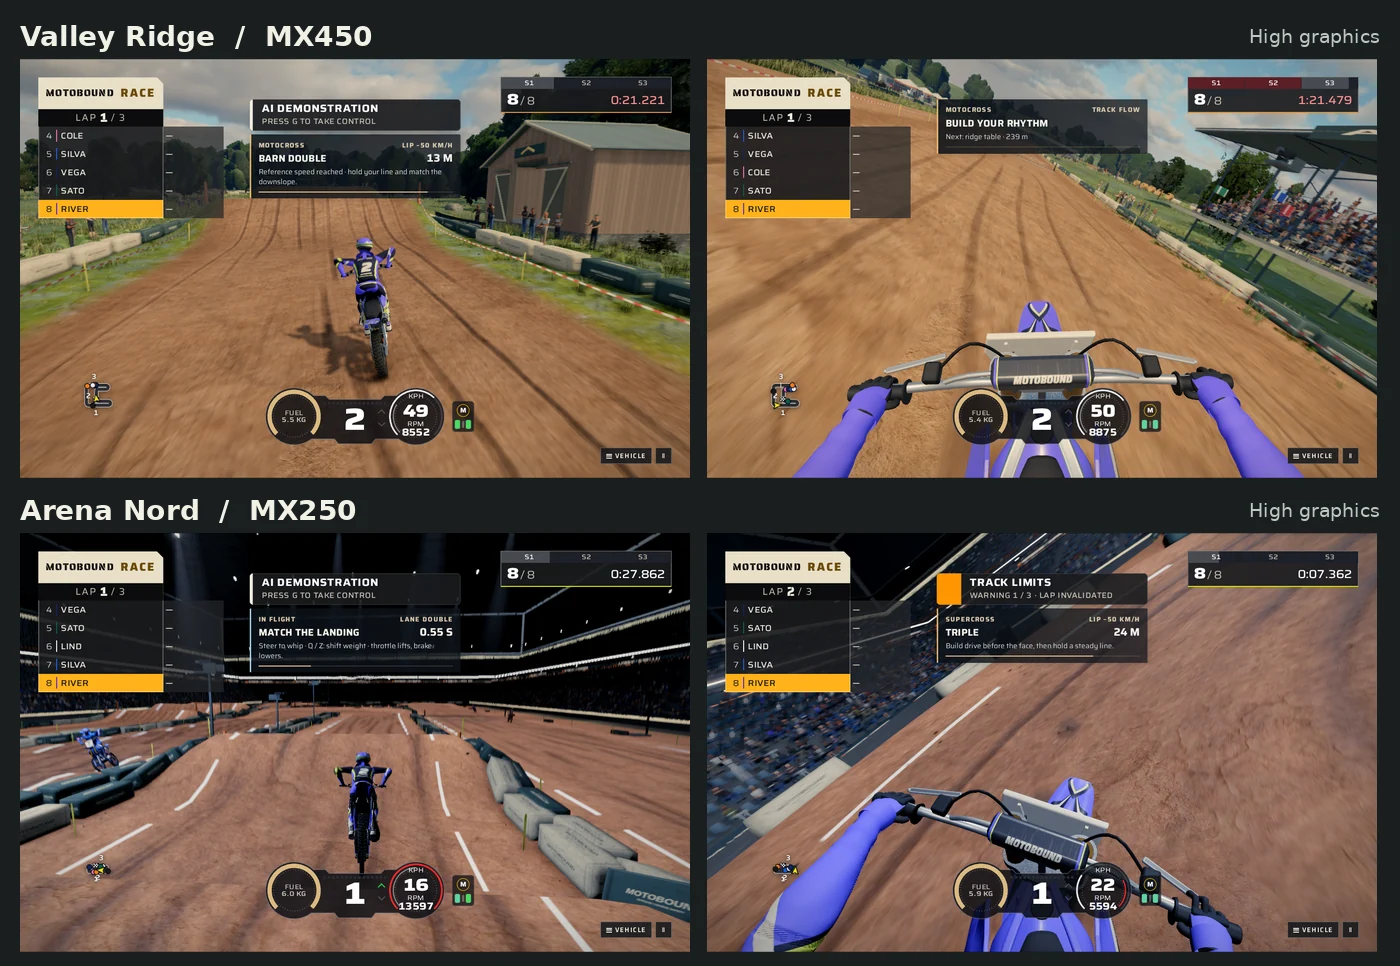
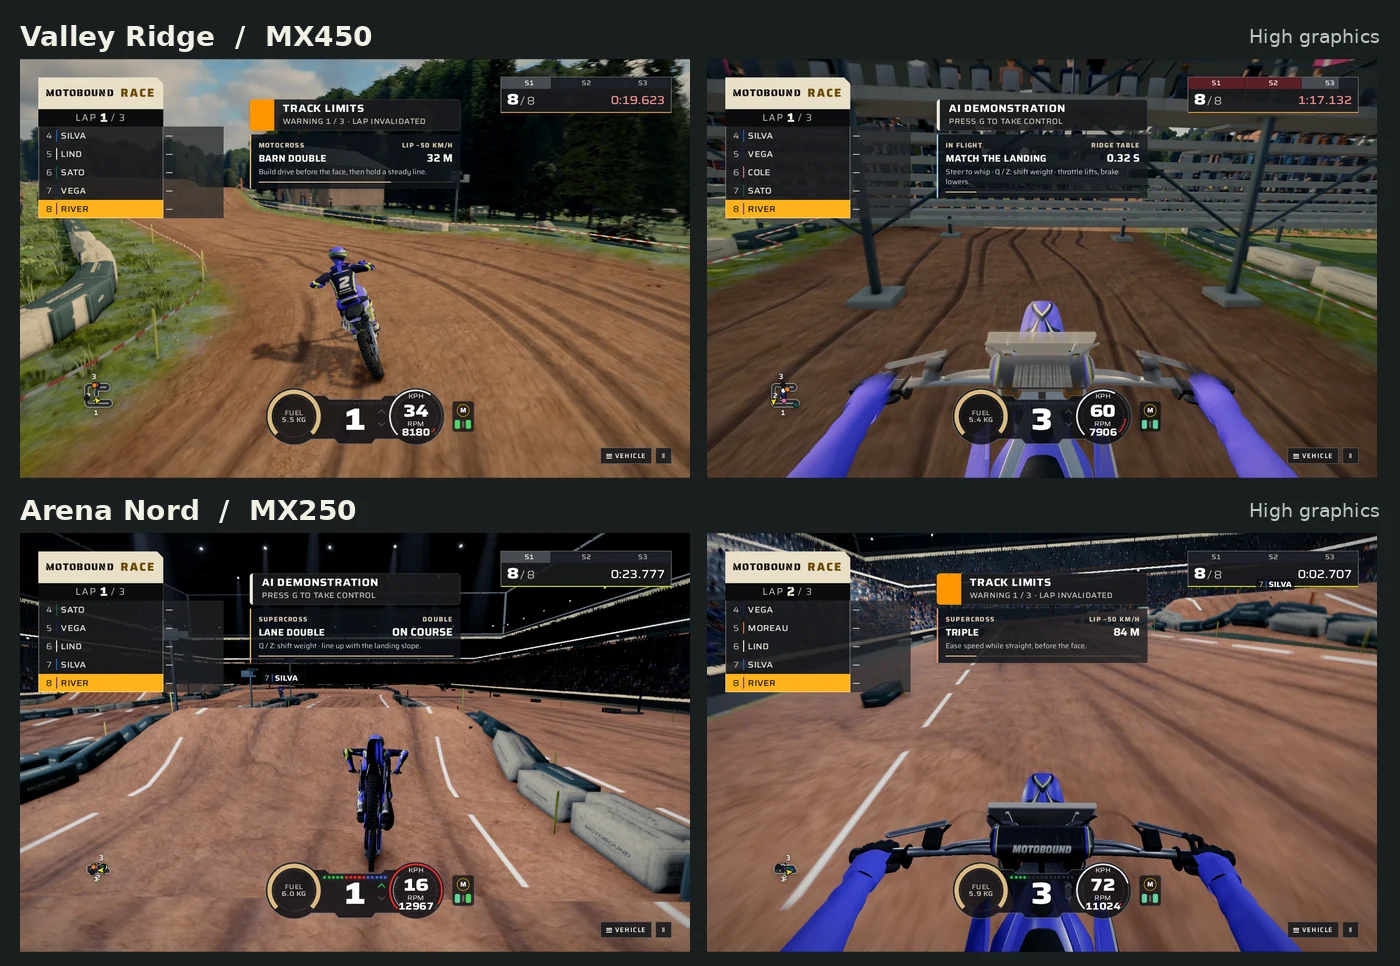
Publish full-quality race frames, matched supermoto artwork and the Mesa terrain results [skip ci]

diff --git a/docs/production/motocross-race-review/README.md b/docs/production/motocross-race-review/README.md
@@ -1,16 +1,16 @@
 # Motocross race review
 
-Valley Ridge and Arena Nord use the same articulated MX250 and MX450 models in racing, onboard views and replay.
+Valley Ridge and Arena Nord use the same articulated MX250 and MX450 models in racing, onboard views and replay. The SM450 supermoto shares the motocross frame and rider controls and uses its own road wheels.
 
 ![Valley Ridge’s eight-rider field holding at the starting gate in the production game](starting-grid.webp)
 
-The High screenshots come from production races entered through the paddock at `32865ee`. The player accelerated and used the fore/aft weight controls before enabling the race AI. These are chase and onboard views from those runs.
+These High screenshots come from production races entered through the paddock at `1a5fb40`. The player accelerated and shifted weight in both directions before enabling the race AI. The outdoor run covered 282 m and recorded 1.10 s of flight. The stadium run covered 187 m and recorded 0.79 s. Both sessions paused and returned to the paddock after the chase and onboard captures.
 
 ![Chase and onboard gameplay at Valley Ridge on the MX450 and Arena Nord on the MX250](racing-views.webp)
 
 The comparisons below use the production Three.js geometry on a neutral floor. Each pair uses the same pose, camera, lighting and scale. The earlier images come from main at `7423a49`.
 
-![MX450 at close and distant range, an MX250 rider standing on the pegs, and an onboard view, before and after the changes](bike-and-rider.webp)
+![MX450 at close and distant range, an MX250 rider standing on the pegs, the road-wheel SM450, and an onboard view, before and after the changes](bike-and-rider.webp)
 
 ![The service van, straw bale, gate and stadium seat geometry under matched lighting](course-models.webp)
 
@@ -65,4 +65,6 @@ npm run test:offroad
 node --experimental-transform-types scripts/motocross-feel-probe.ts
 ```
 
-These WebGL2 inspections use Chromium with SwiftShader. For a physical desktop GPU, the existing benchmark records the adapter, frame pacing and driving stalls with `npm run bench:gpu -- --journeys motocross --qualities low,medium,high`. Console performance and competitive input latency still require measurements on the target hardware.
+The WebGL2 model inspections ran on Chromium with SwiftShader and Mesa llvmpipe. Both adapters passed the two-rider GPU lifetime test. The terrain checks covered six states in both camera views on both venues. On Mesa, 22 of 23 browser checks passed in one run. The Arena Nord terrain check timed out there and passed on its own in 3.1 minutes, with the same 472 geometries, 428 textures and 62 shader programs throughout.
+
+For a physical desktop GPU, the existing benchmark records the adapter, frame pacing and driving stalls with `npm run bench:gpu -- --journeys motocross --qualities low,medium,high`. Console performance and competitive input latency still require measurements on the target hardware.

diff --git a/README.md b/README.md
@@ -142,7 +142,7 @@ scripts/, tools/ Validation and asset tooling
 | [MotoGP R2 improvements](docs/MOTOGP_R2_DELIVERY.md)                                       | All 100 reference reviews, bike/rider and circuit changes, motorcycle interface, braking corrections and visual evidence.                                                          |
 | [MotoGP R3 visual upgrade](docs/MOTOGP_R3_VISUAL_UPGRADE.md)                               | Hard-surface GP-R1 bodywork, projected race livery, printed GP walls and padding, mown verges, before/after game captures.                                                         |
 | [Motocross reference upgrade](docs/production/motocross-reference-upgrade.md)              | All 100 motocross references, detailed bikes and riders, dirt and stadium scenery, riding/camera updates, race reliability and actual gameplay evidence.                           |
-| [Motocross race review](docs/production/motocross-race-review/README.md)                  | Matched MX250 and MX450 renders, race captures, rider contact measurements and starting-grid memory use. |
+| [Motocross race review](docs/production/motocross-race-review/README.md)                  | Matched MX250, MX450 and SM450 renders, race captures, rider contact measurements and starting-grid memory use. |
 | [Open-world festival](docs/production/OPEN_WORLD.md)                                       | Solvane Coast, free roam, events, traffic and known limits.                                                                                                                        |
 | [100-image festival reference record](docs/production/HORIZON_REFERENCE_IMPLEMENTATION.md) | Individual observations and original implementations for every supplied reference, with code links and limits.                                                                     |
 | [Festival upgrade validation](docs/production/HORIZON_UPGRADE_VALIDATION.md)               | Final screenshots, real driving/event evidence, test results and the guarded production build.                                                                                     |
